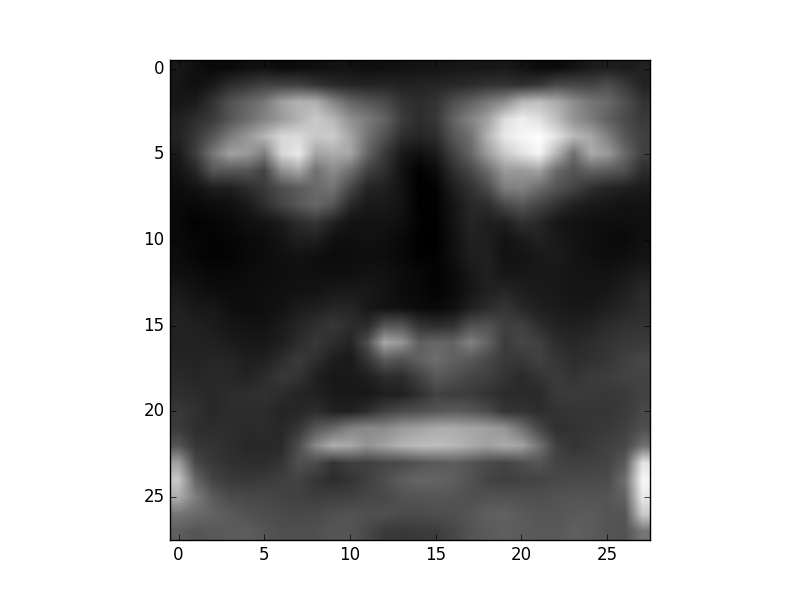
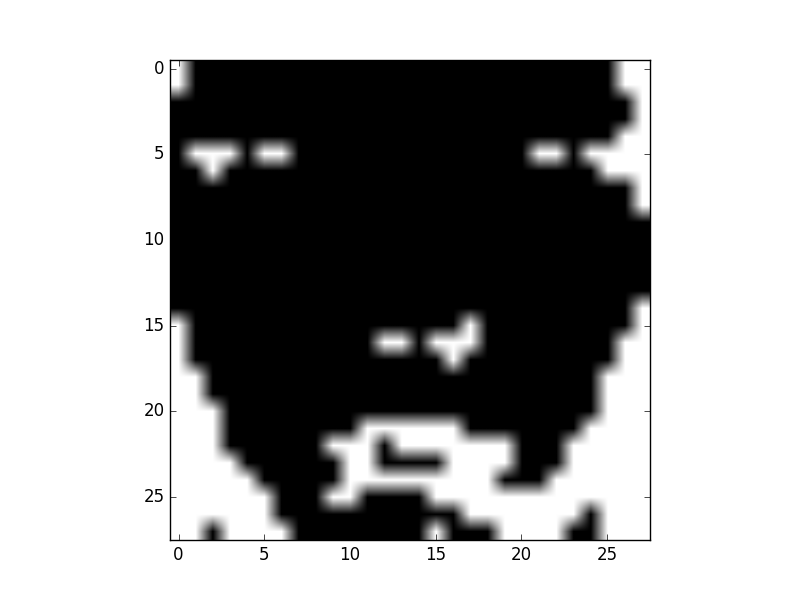
ha

diff --git a/iwae/datasets/FACE/untitled.py b/iwae/datasets/FACE/untitled.py
@@ -66,16 +66,26 @@ def onehot(x):
 # np.save('toronto_face_test_label', new_target_test)
 # np.save('toronto_face_valid', inputs_valid)
 
-valid = np.zeros((int(inputs_valid.size / 2304), 784))
-for i in range(int(inputs_valid.size / 2304)):
-    img = inputs_valid[i]
+train = np.zeros((int(inputs_train.size / 2304), 784))
+for i in range(int(inputs_train.size / 2304)):
+    img = inputs_train[i]
     img = img.reshape((48, 48)) 
     img = scipy.misc.imresize(img, (28, 28))
     img = img.reshape((784, ))
-    valid[i] = img
+    train[i] = img
 
-valid = valid / 255
-np.save('toronto_face_valid', valid)
+train = train / 255
+train = np.around(train)
+img = train[0]
+img = img.reshape((28, 28))
+import matplotlib
+matplotlib.use('Agg')
+import matplotlib.pyplot as plt
+plt.imshow(img, cmap='Greys')
+plt.savefig("damn.png")
+plt.close()
+
+# np.save('toronto_face_train', train)
 # np.save('toronto_face_test', test)
 
 # img = train[42]

diff --git a/reweighted_ws/learning/training.py b/reweighted_ws/learning/training.py
@@ -275,15 +275,9 @@ class Trainer(TrainerBase):
         n_batches = n_datapoints // batch_size
         epoch = self.step // n_batches
         LL_epoch = 0
-        print(n_datapoints)
-        print(batch_size)
-        print(n_batches)
-        print(epoch)
 
         self.update_shvars()
         self.shuffle_train_data()
-
-        print(self.shvar)
 
         # Update learning rated
         self.shvar['lr_p'].set_value((self.calc_learning_rates(self.learning_rate_p / self.lr_decay**epoch)).astype(floatX))
